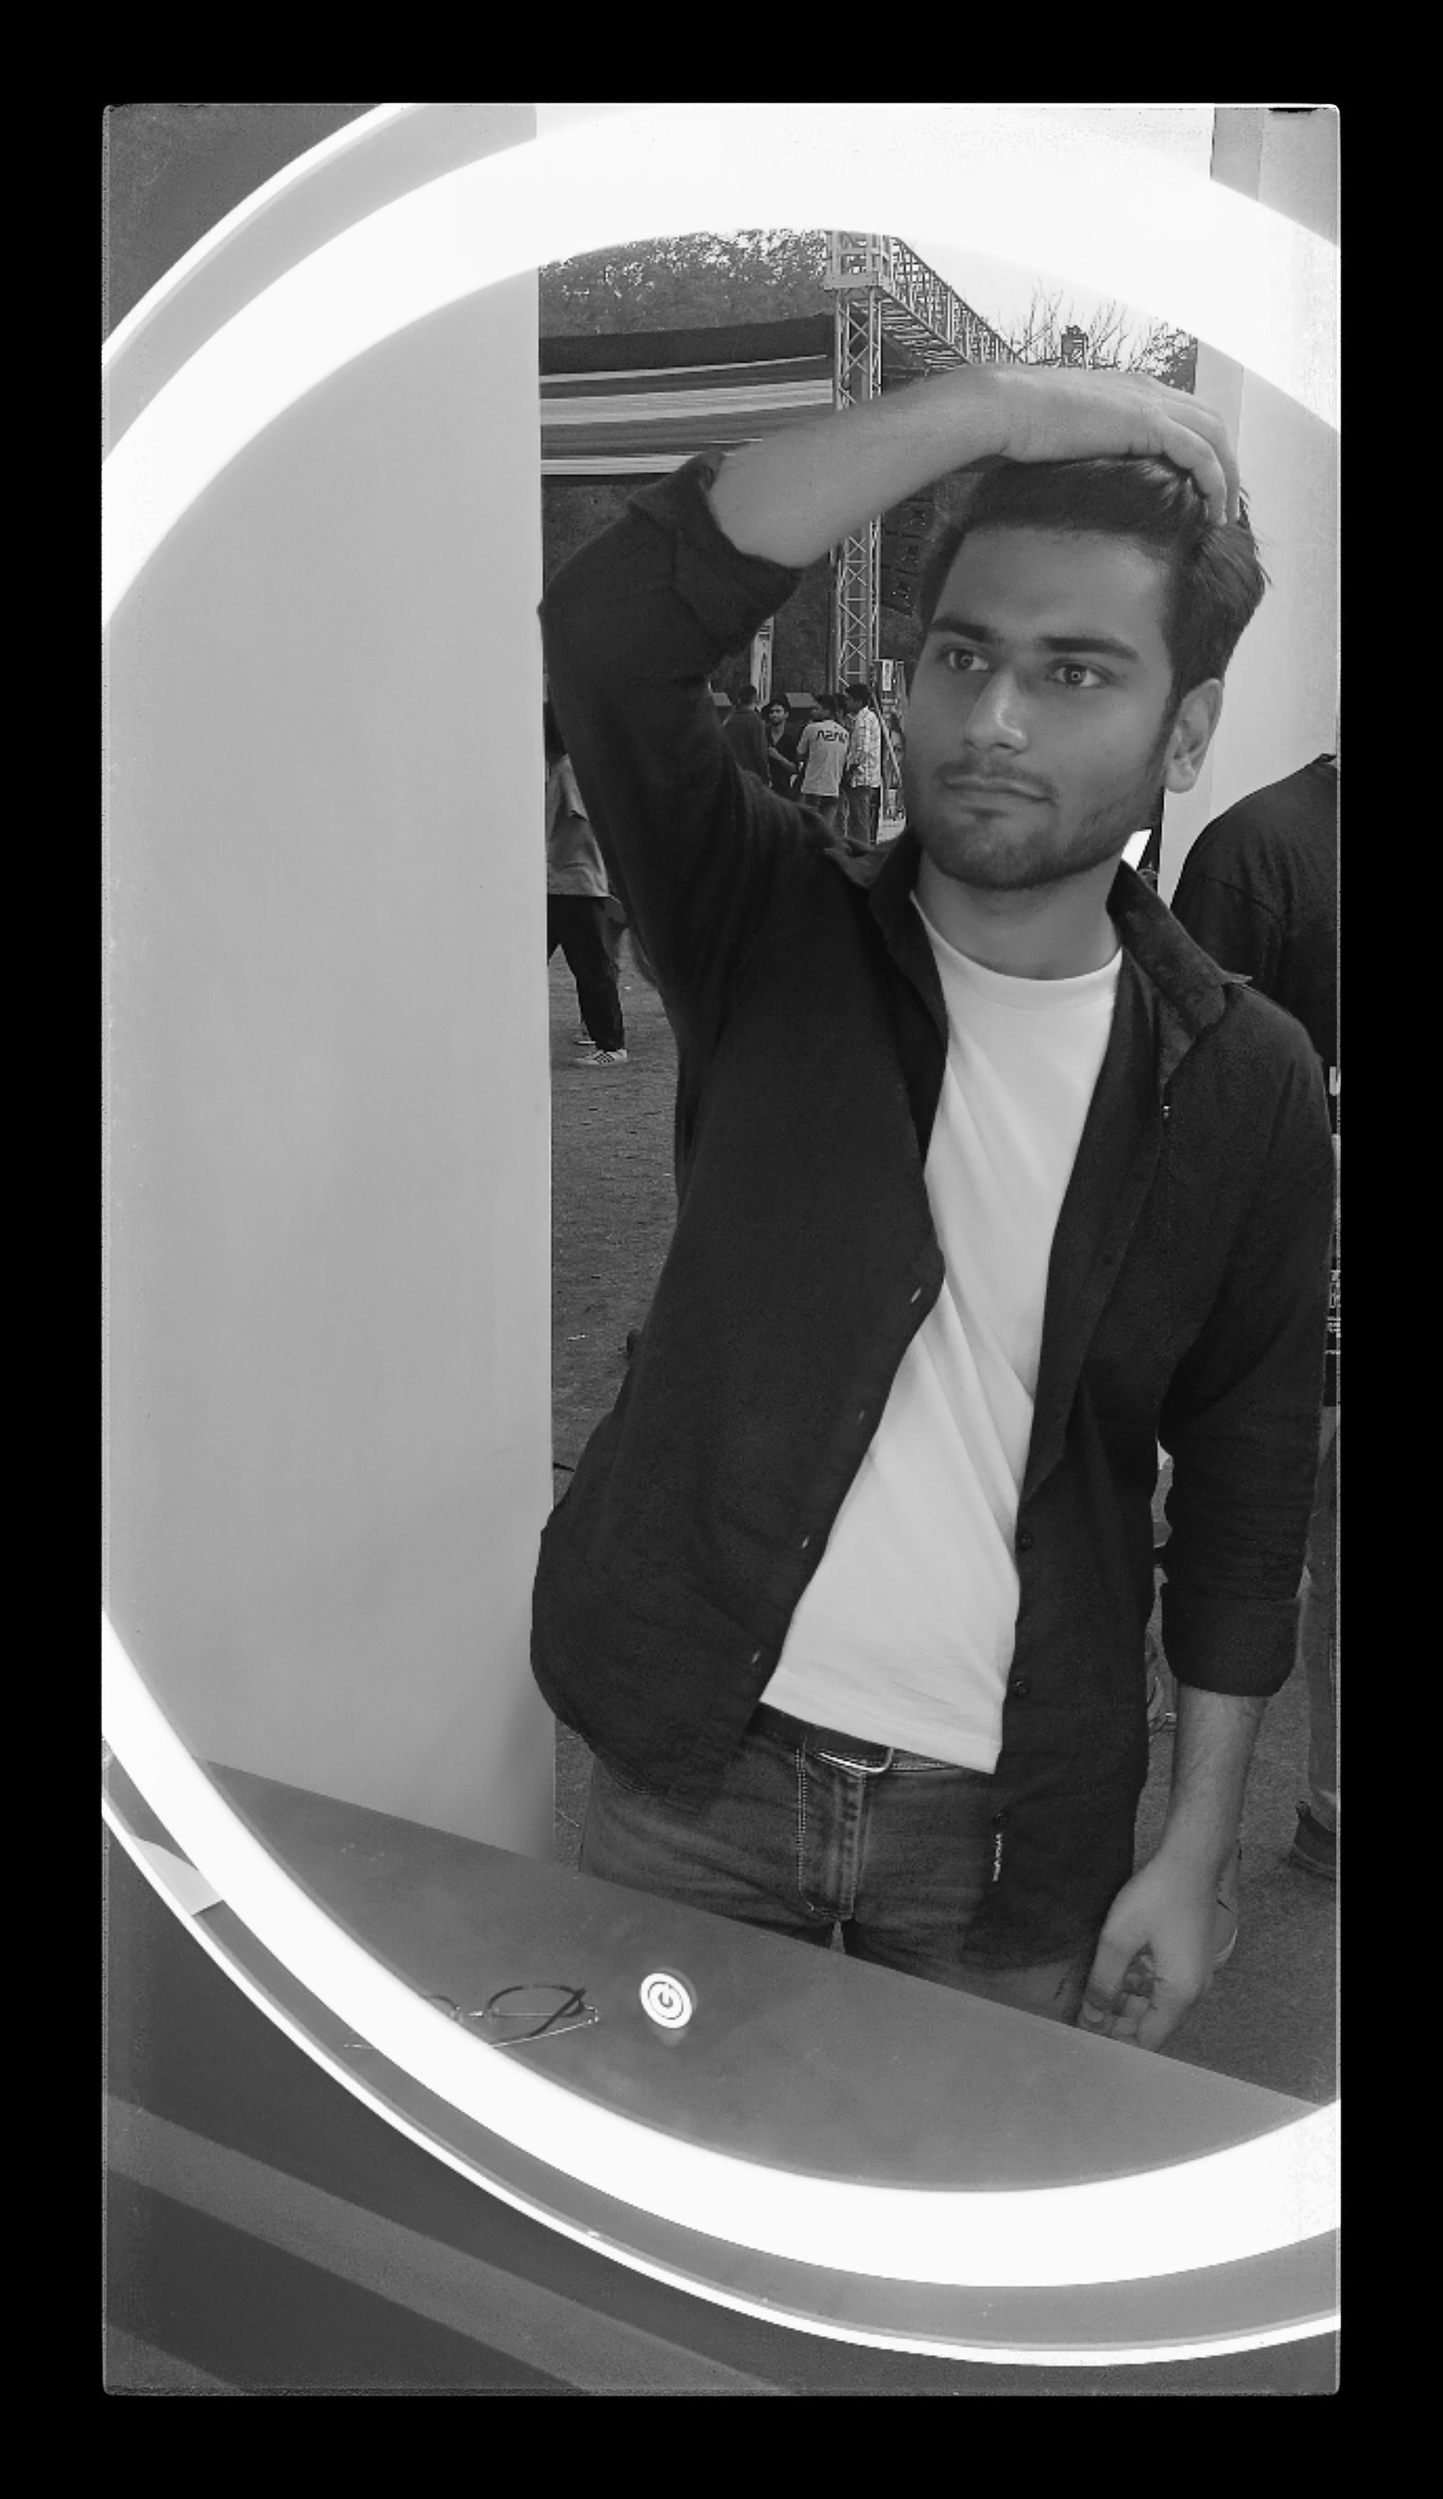
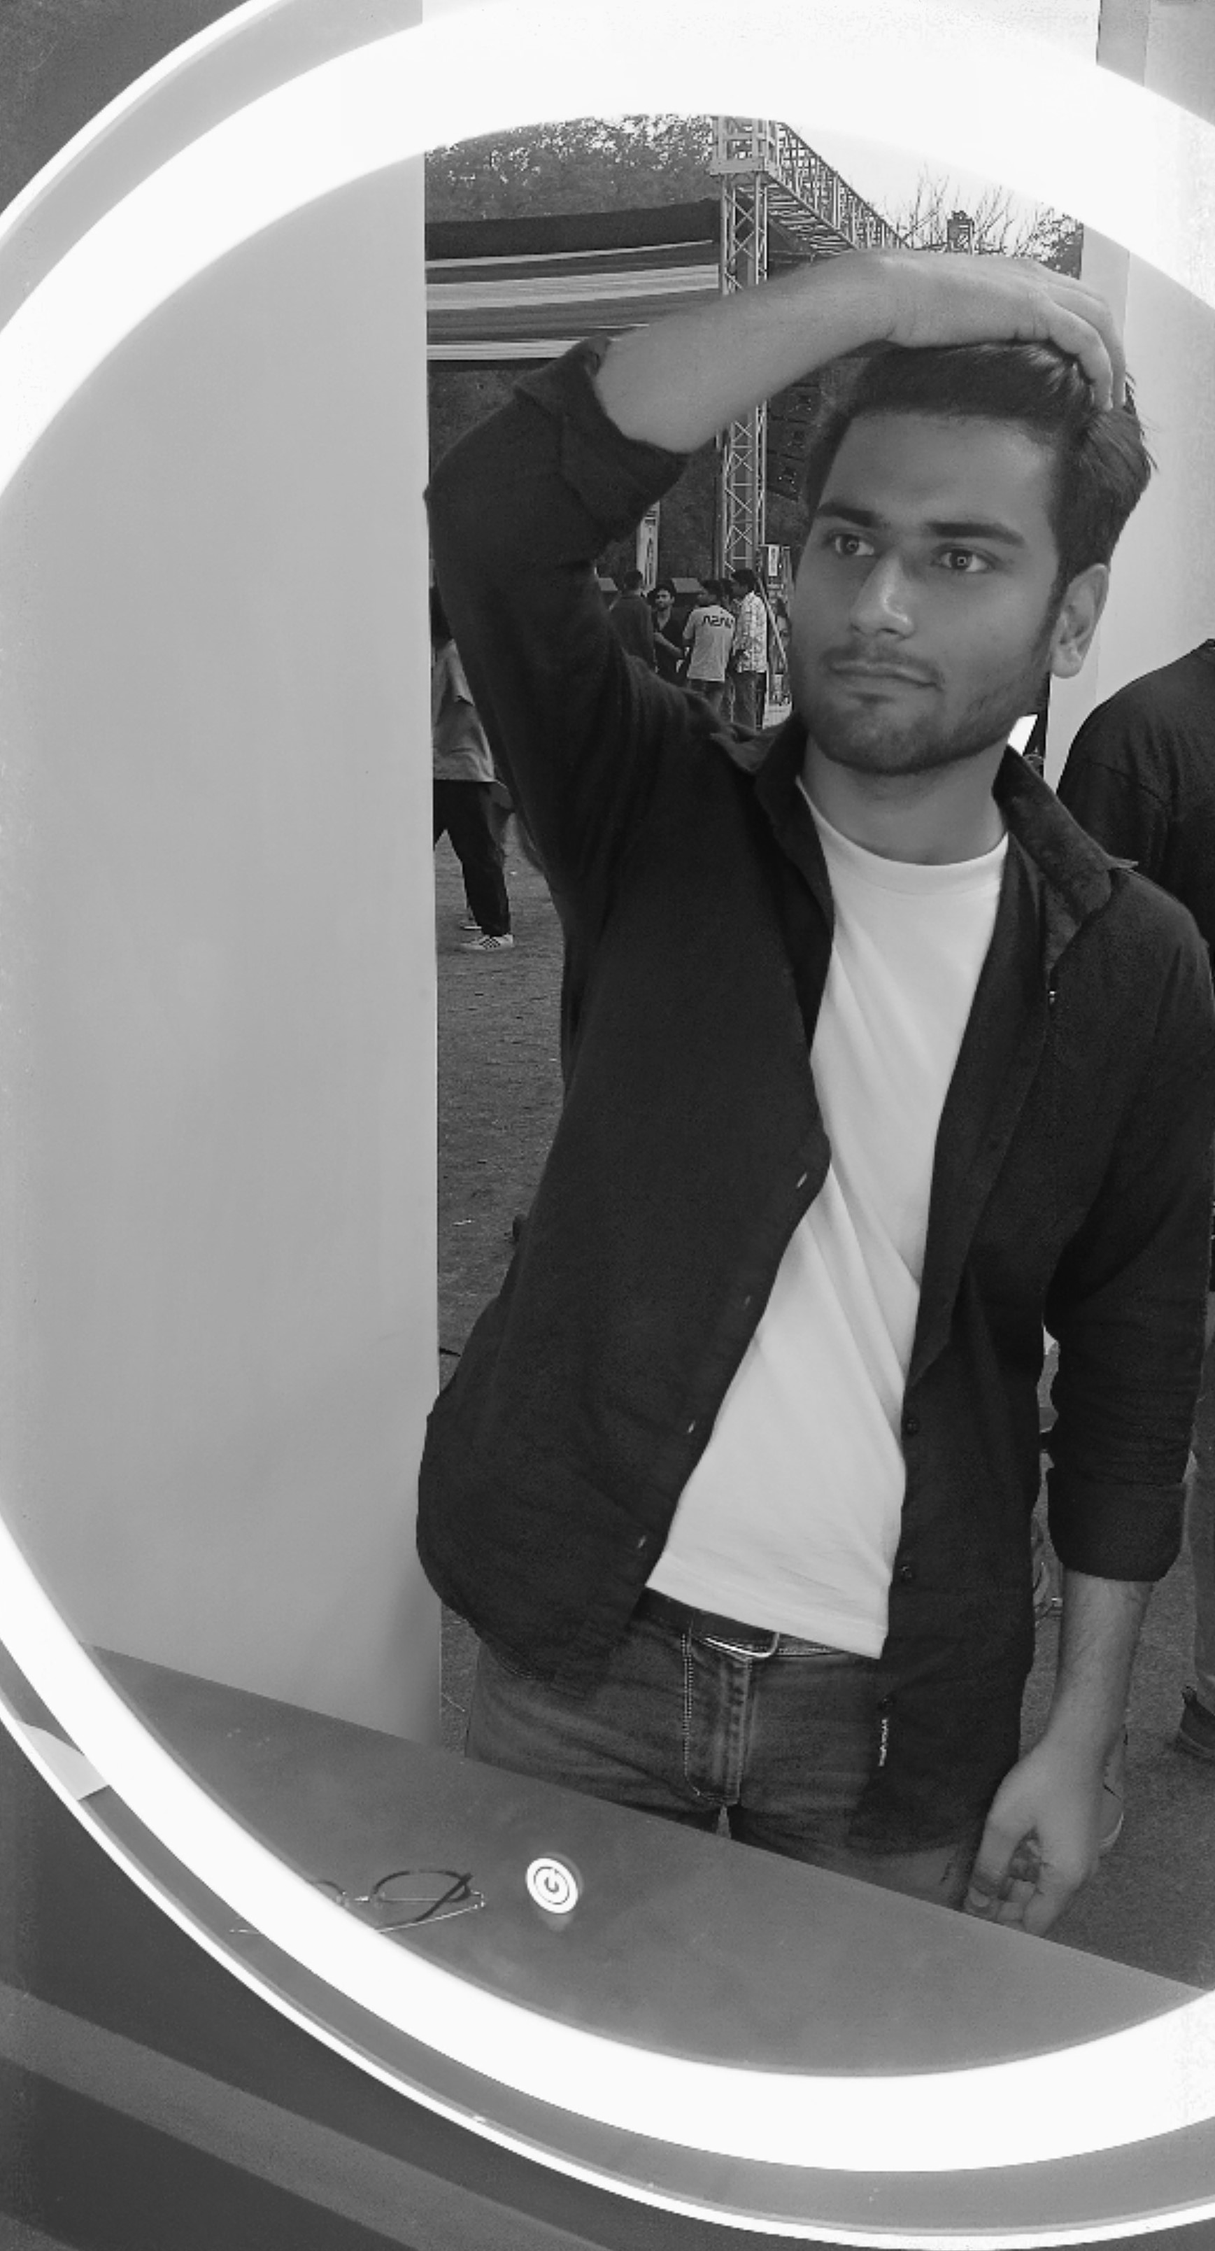
experience updated

diff --git a/index.html b/index.html
@@ -71,11 +71,9 @@
     <!-- about section starts -->
     <section class="about" id="about">
         <h2 class="heading"><i class="fas fa-user-alt"></i> About <span>Me</span></h2>
-
         <div class="row">
-
             <div class="image">
-                <img draggable="false" class="tilt" src="./assets/images/hero.jpeg" alt="">
+                <img draggable="false" class="tilt" src="./assets/images/profile6.jpeg" alt="">
             </div>
             <div class="content">
                 <h3>I'm shivam</h3>
@@ -184,7 +182,28 @@
         <h2 class="heading"><i class="fas fa-briefcase"></i> Experience </h2>
 
         <div class="timeline">
-
+            <div class="container left">
+                <div class="content">
+                    <div class="tag">
+                        <h2>Open To Work </h2>
+                    </div>
+                    <div class="desc">
+                        <h3>Software Developer Intern (Frontend/Full stack) </h3>
+                        <p> Joining Date – As Summer Intern (May 2023- July 2023)</p>
+                    </div>
+                </div>
+            </div>
+            <div class="container right">
+                <div class="content">
+                    <div class="tag">
+                        <h2>DTU International Students' Society (DTU-ISS) </h2>
+                    </div>
+                    <div class="desc">
+                        <h3>Frontend Web Developer </h3>
+                        <p> Mar 2023 - Present</p>
+                    </div>
+                </div>
+            </div>
             <div class="container left">
                 <div class="content">
                     <div class="tag">
@@ -203,7 +222,7 @@
                     </div>
                     <div class="desc">
                         <h3>Web developer | part time</h3>
-                        <p>April 2021 - May 2021</p>
+                        <p>Jan 2023 - present</p>
                     </div>
                 </div>
             </div>
@@ -214,7 +233,7 @@
                     </div>
                     <div class="desc">
                         <h3>Frontend Developer Intern | Internship</h3>
-                        <p>April 2021 - April 2021</p>
+                        <p>May 2022 - July 2022</p>
                     </div>
                 </div>
             </div>
@@ -240,7 +259,6 @@
                     </div>
                 </div>
             </div>
-
         </div>
 
         <div class="morebtn">

diff --git a/experience/index.html b/experience/index.html
@@ -45,7 +45,28 @@
         </div> -->
 
         <div class="timeline">
-
+            <div class="container left">
+                <div class="content">
+                    <div class="tag">
+                        <h2>Open To Work </h2>
+                    </div>
+                    <div class="desc">
+                        <h3>Software Developer Intern (Frontend/Full stack) </h3>
+                        <p> Joining Date – As Summer Intern (May’23- July’23)</p>
+                    </div>
+                </div>
+            </div>
+            <div class="container right">
+                <div class="content">
+                    <div class="tag">
+                        <h2>DTU International Students' Society (DTU-ISS) </h2>
+                    </div>
+                    <div class="desc">
+                        <h3>Frontend Web Developer </h3>
+                        <p> Mar 2023 - Present</p>
+                    </div>
+                </div>
+            </div>
             <div class="container left">
                 <div class="content">
                     <div class="tag">
@@ -101,7 +122,6 @@
                     </div>
                 </div>
             </div>
-
         </div>
 
         <div class="morebtn">
